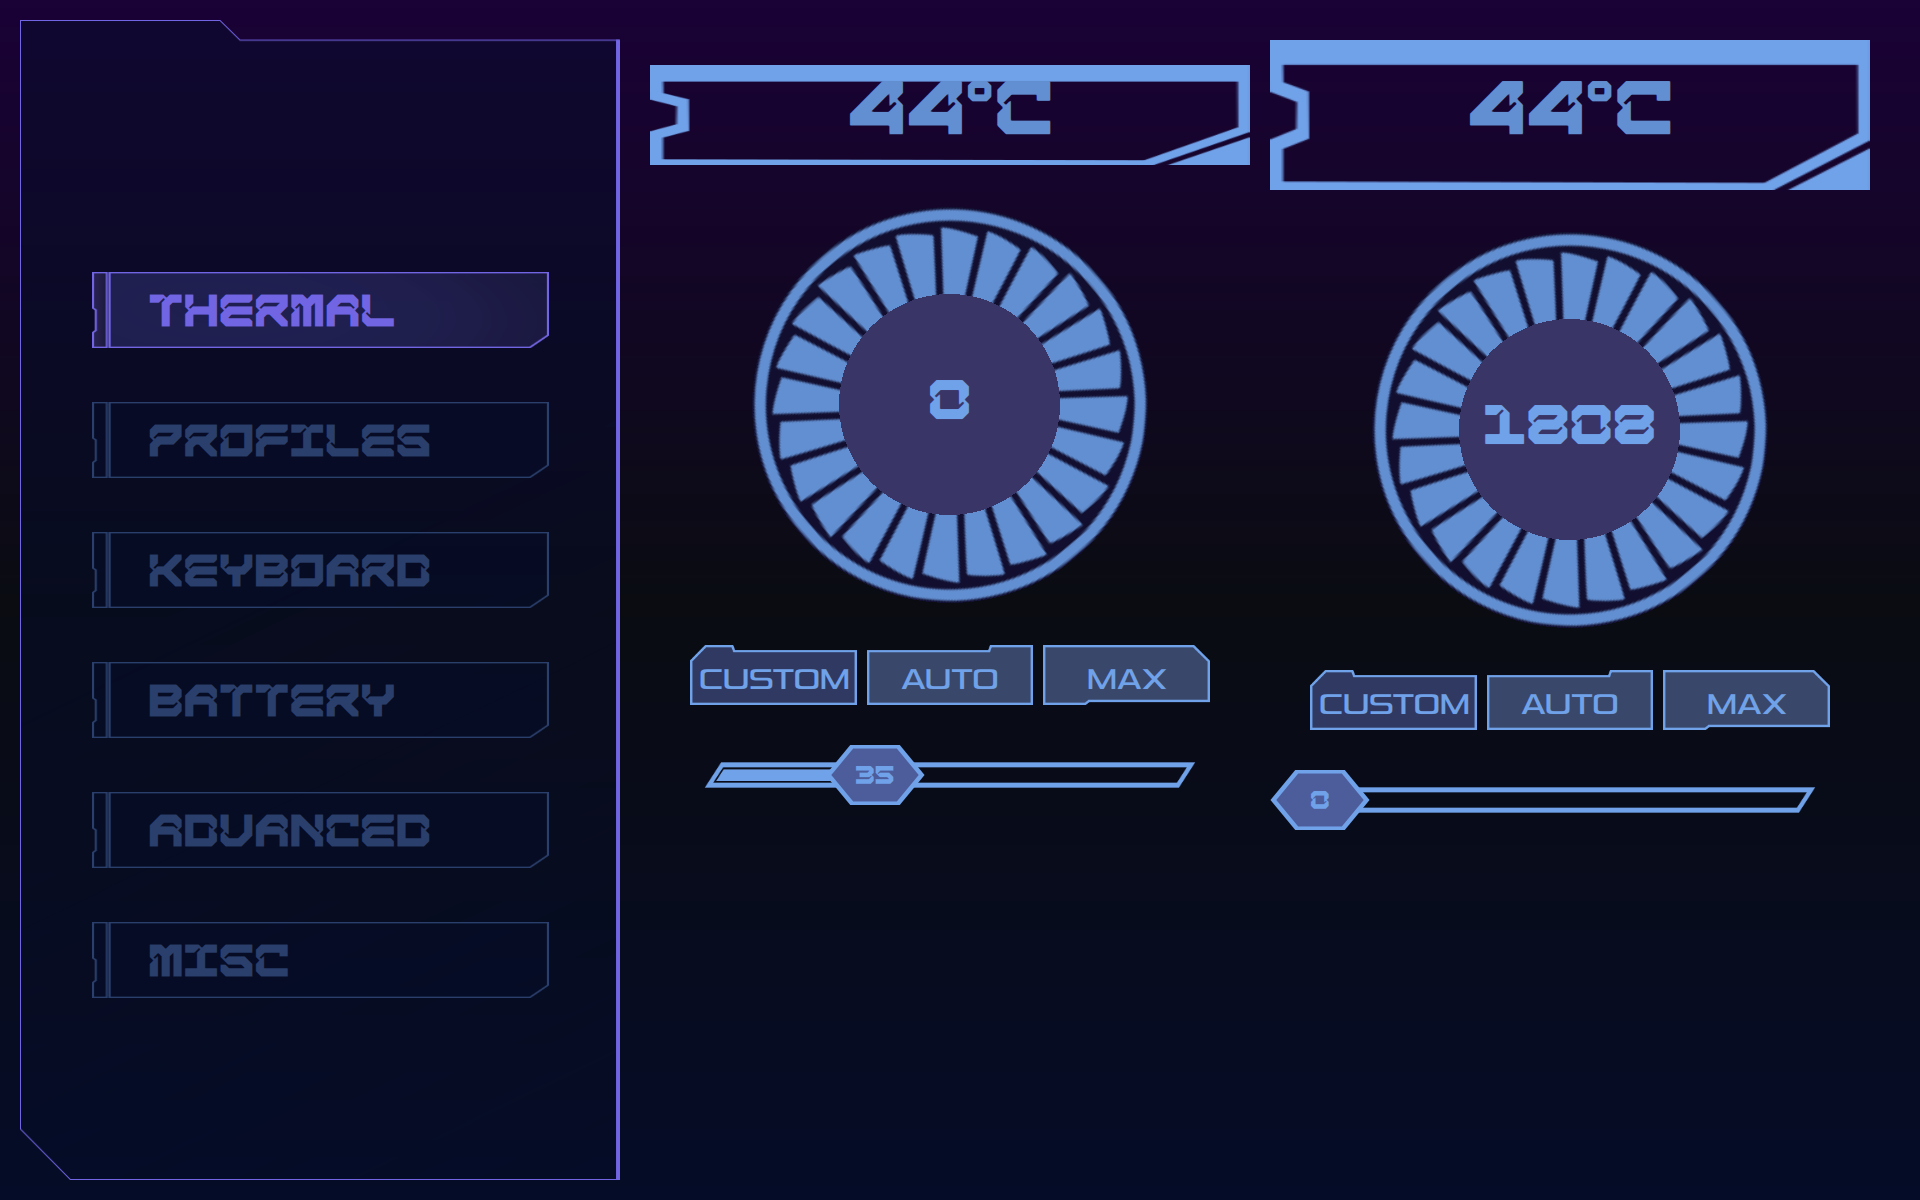
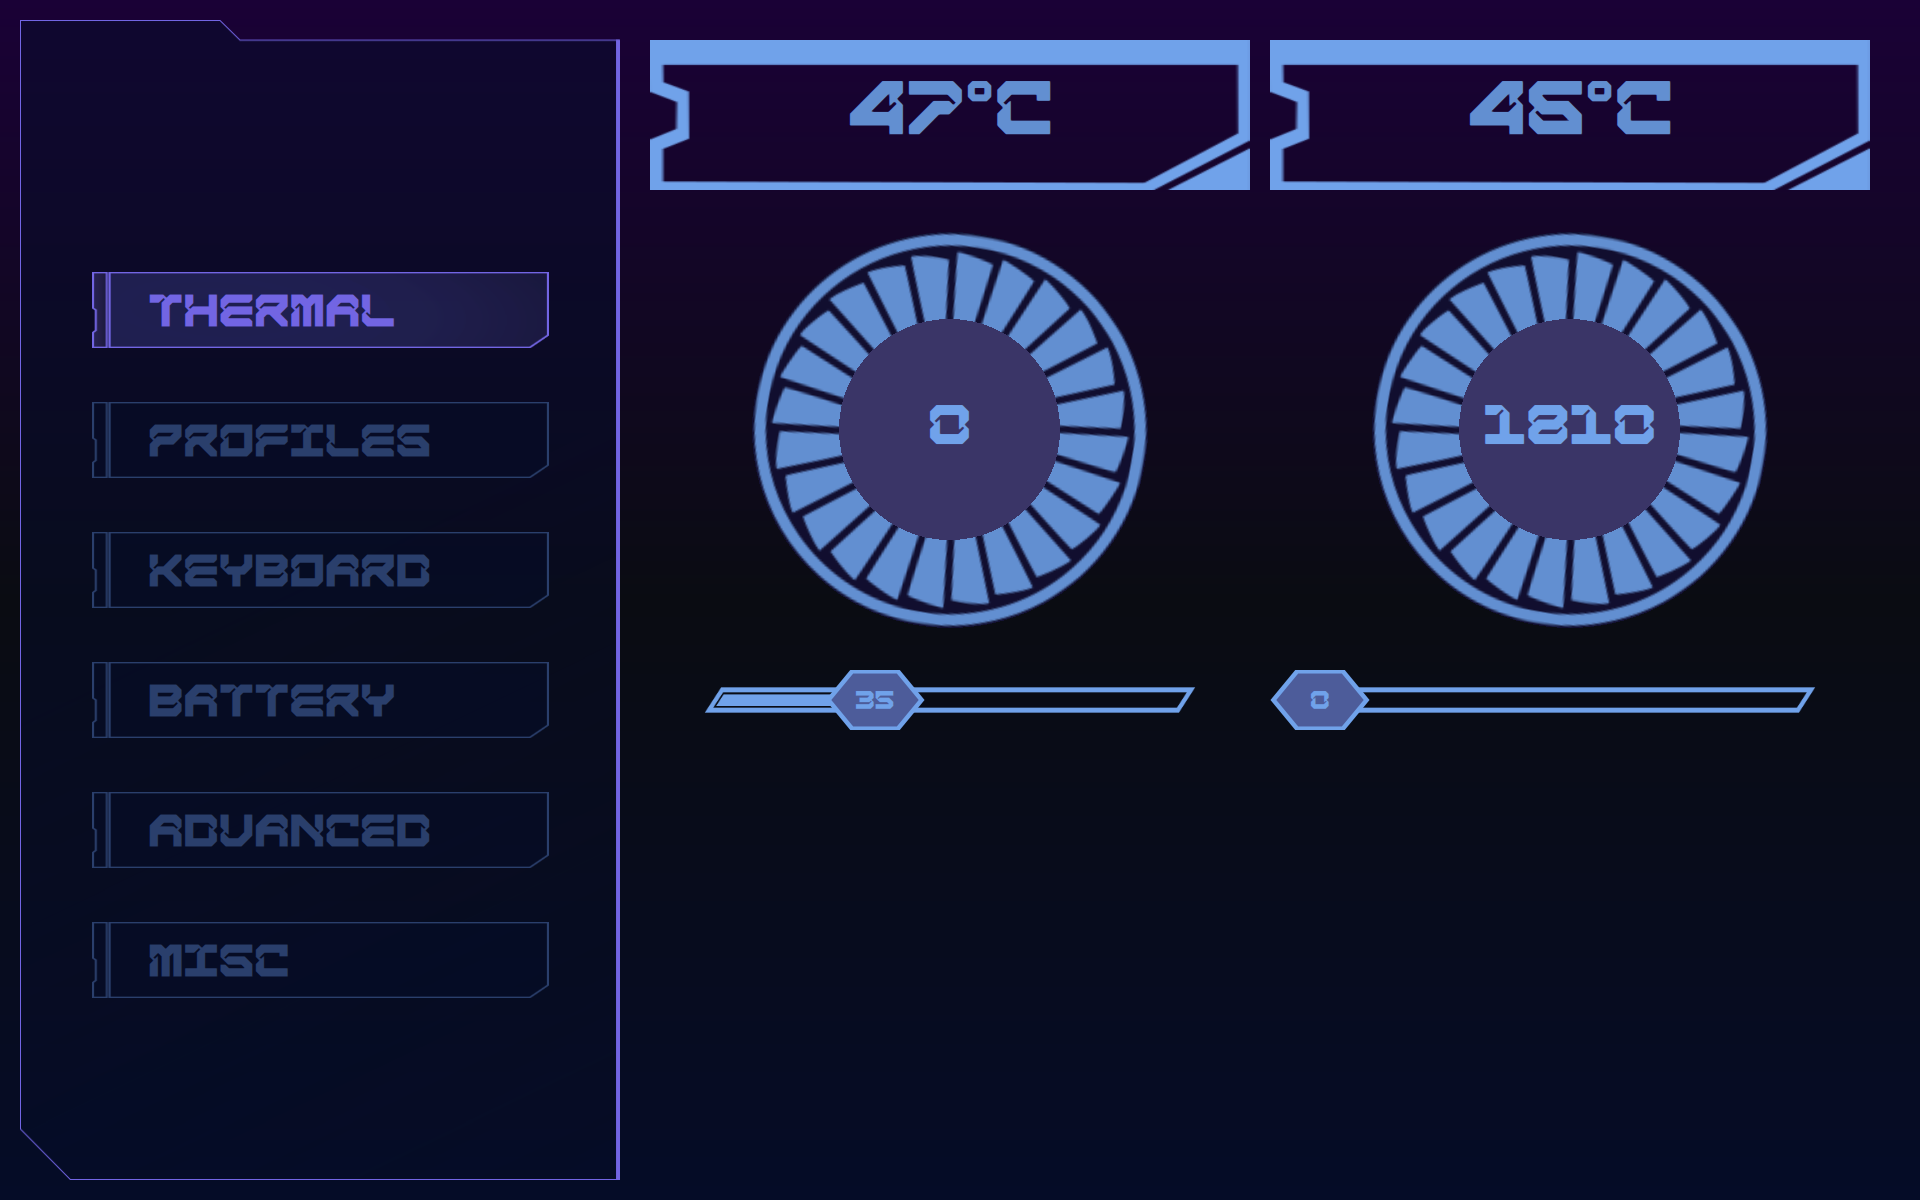
updated ui

diff --git a/qml/Main.qml b/qml/Main.qml
@@ -229,8 +229,8 @@ Window {
                             Layout.fillWidth: true
                             Layout.topMargin: 40
                             Layout.minimumHeight: 50
-                            Layout.preferredHeight: 100
-                            Layout.maximumHeight: 100
+                            Layout.preferredHeight: 150
+                            Layout.maximumHeight: 150
                             temperature: dataModel.cpuTemp
 
 
@@ -263,16 +263,6 @@ Window {
                             height: 400
                             level: dataModel.cpuFanRPM
 
-                            anchors.horizontalCenter: parent.horizontalCenter
-                        }
-
-                        CyberToggleGroup {
-                            Layout.preferredWidth: parent.width - 80
-                            // Layout.fillWidth: true
-                            Layout.topMargin: 40
-                            Layout.minimumHeight: 50
-                            Layout.preferredHeight: 60
-                            Layout.maximumHeight: 60
                             anchors.horizontalCenter: parent.horizontalCenter
                         }
 
@@ -361,16 +351,6 @@ Window {
 
                             anchors.horizontalCenter: parent.horizontalCenter
 
-                        }
-
-                        CyberToggleGroup {
-                            Layout.preferredWidth: parent.width - 80
-                            // Layout.fillWidth: true
-                            Layout.topMargin: 40
-                            Layout.minimumHeight: 50
-                            Layout.preferredHeight: 60
-                            Layout.maximumHeight: 60
-                            anchors.horizontalCenter: parent.horizontalCenter
                         }
 
                         CyberSlider {
